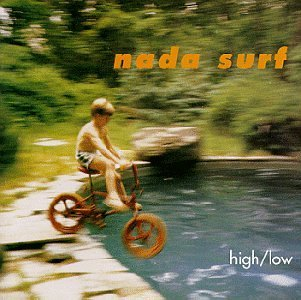
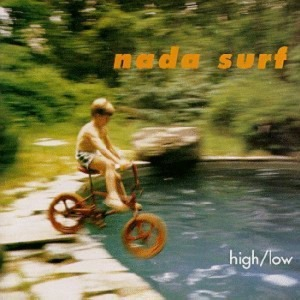
Update Nada Surf images

diff --git a/assets/scripts/global.js b/assets/scripts/global.js
@@ -568,7 +568,7 @@ const buildAlbumCard = (artistName, album) => {
   console.log(`Card being built for ${album.title}`);
   // Create image SRC:
   const imgSrc = setRelativePath(`assets/images/music/${kebabCase(artistName)}/${kebabCase(album)}.jpg`);
-  // Fix all my file names to follow this naming convention. RESUME: NADA SURF
+  // Fix all my file names to follow this naming convention. RESUME: NEW ORDER
   // Resize every file to 300px x 300px.
   // Convert everything to .jpg that isn't already.
   // Minimize them all.
